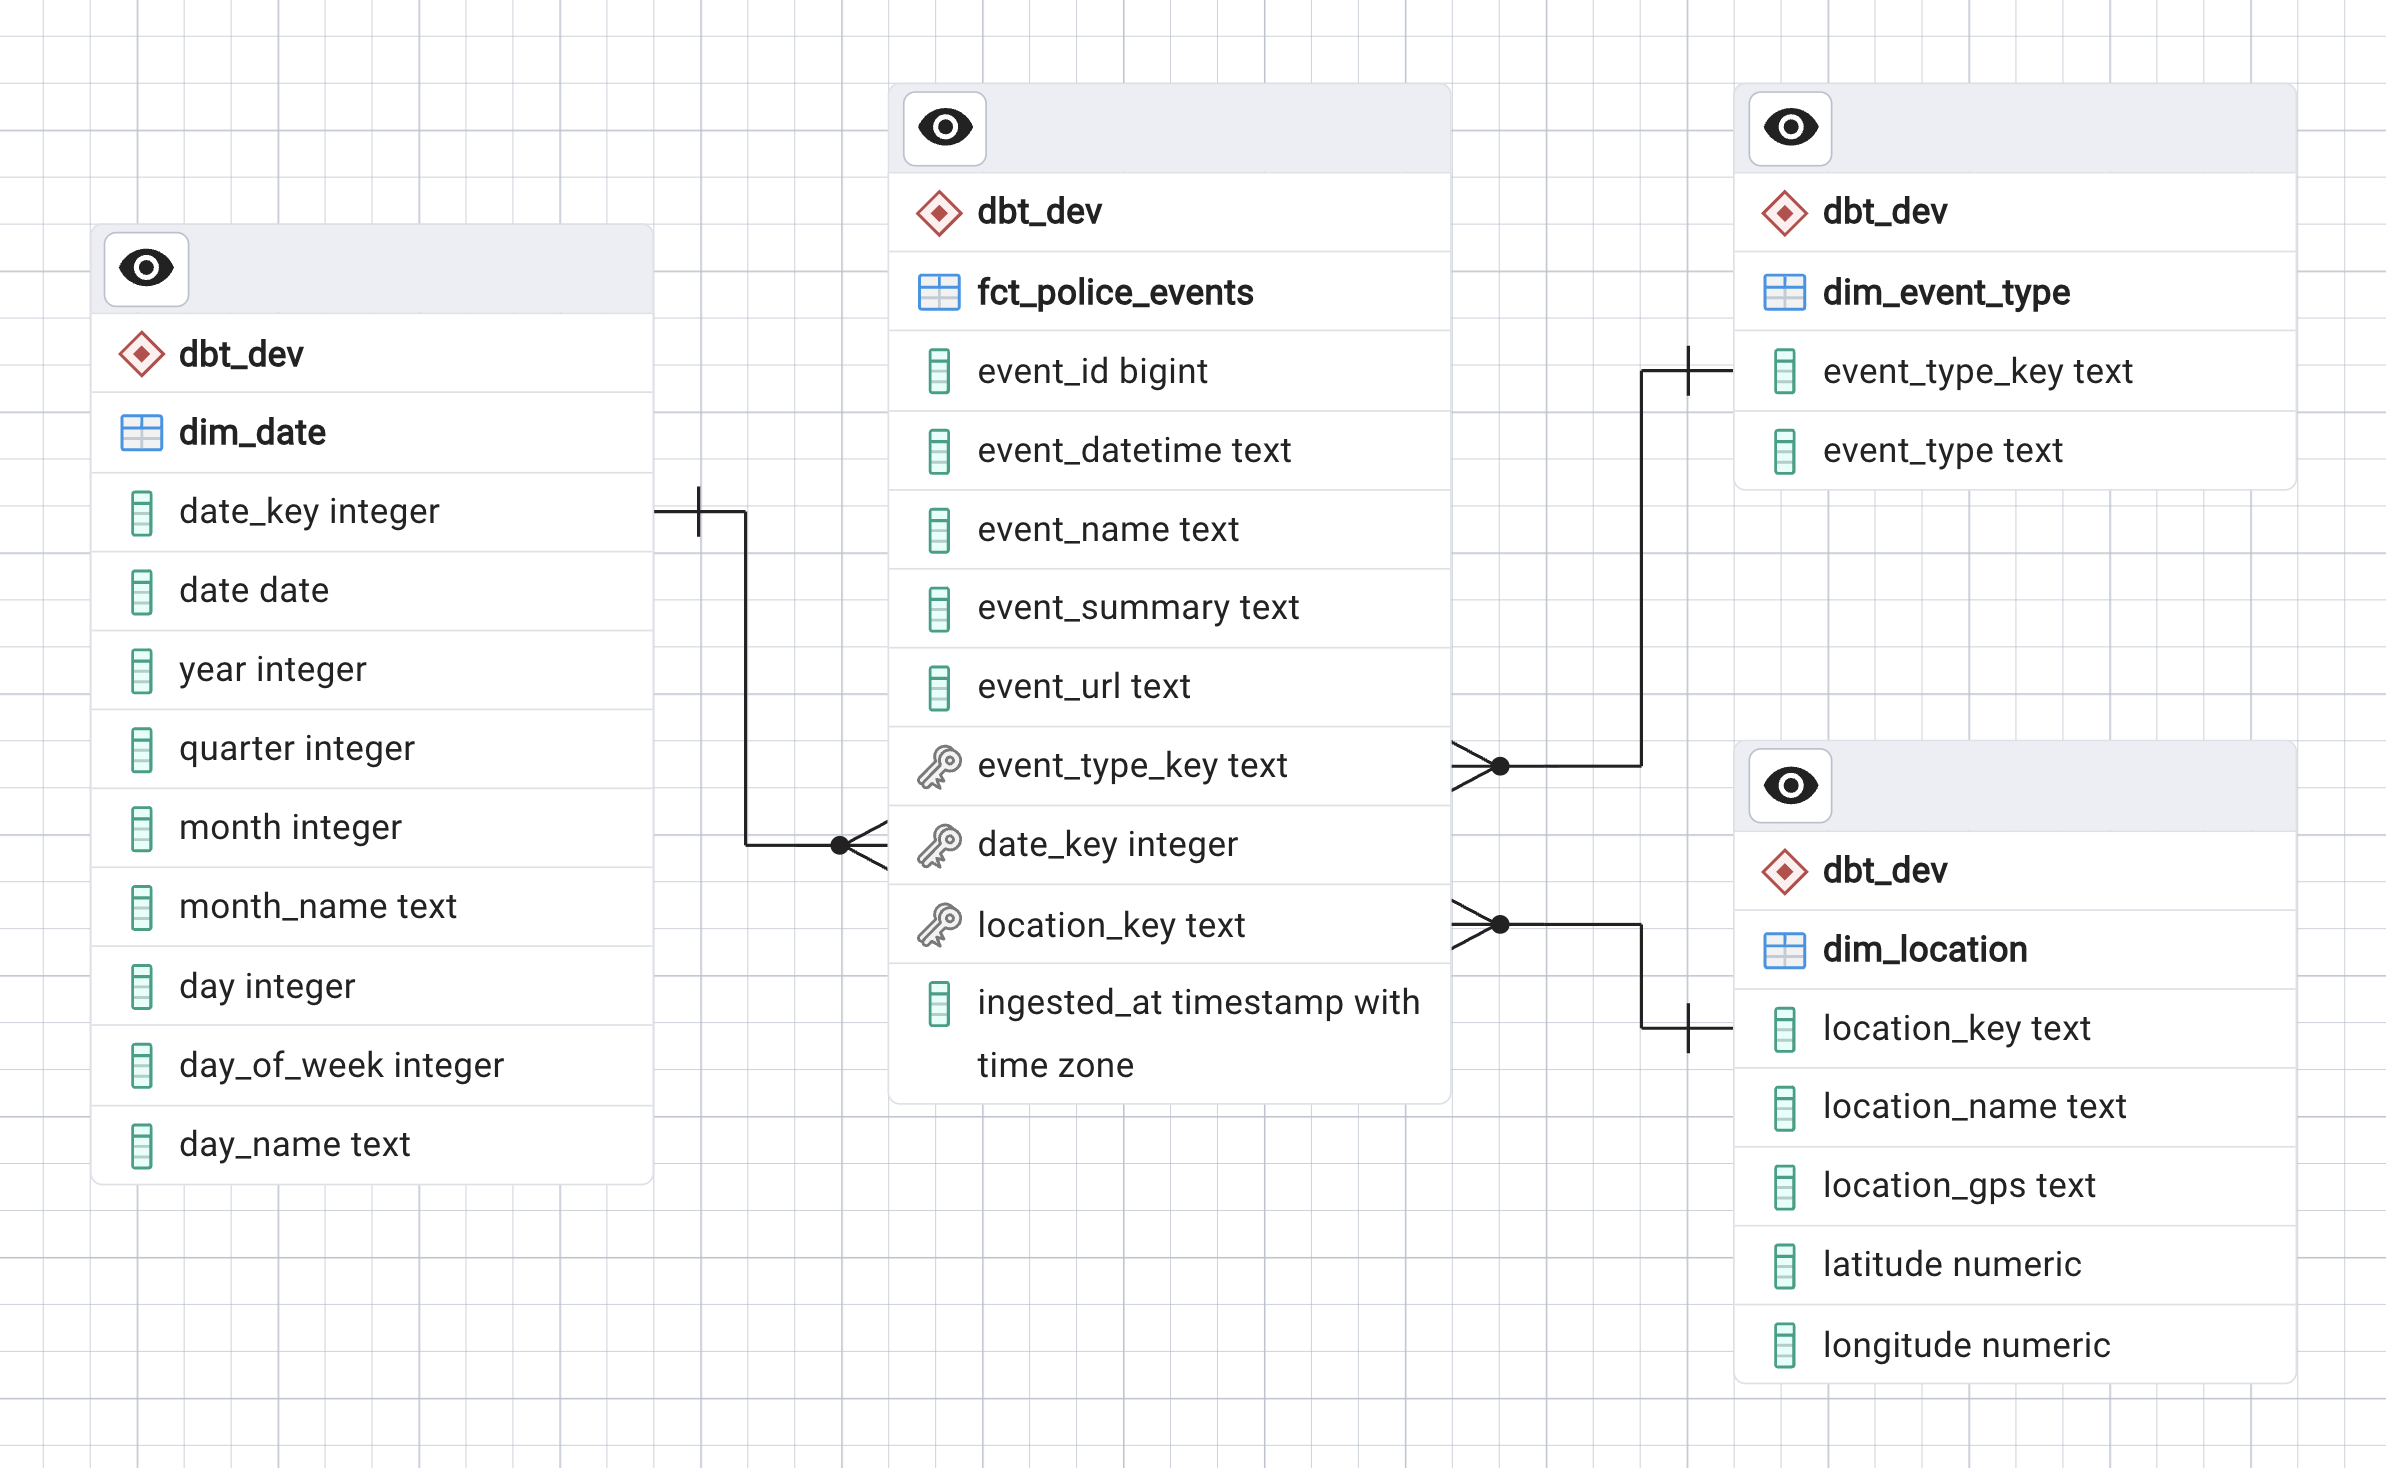
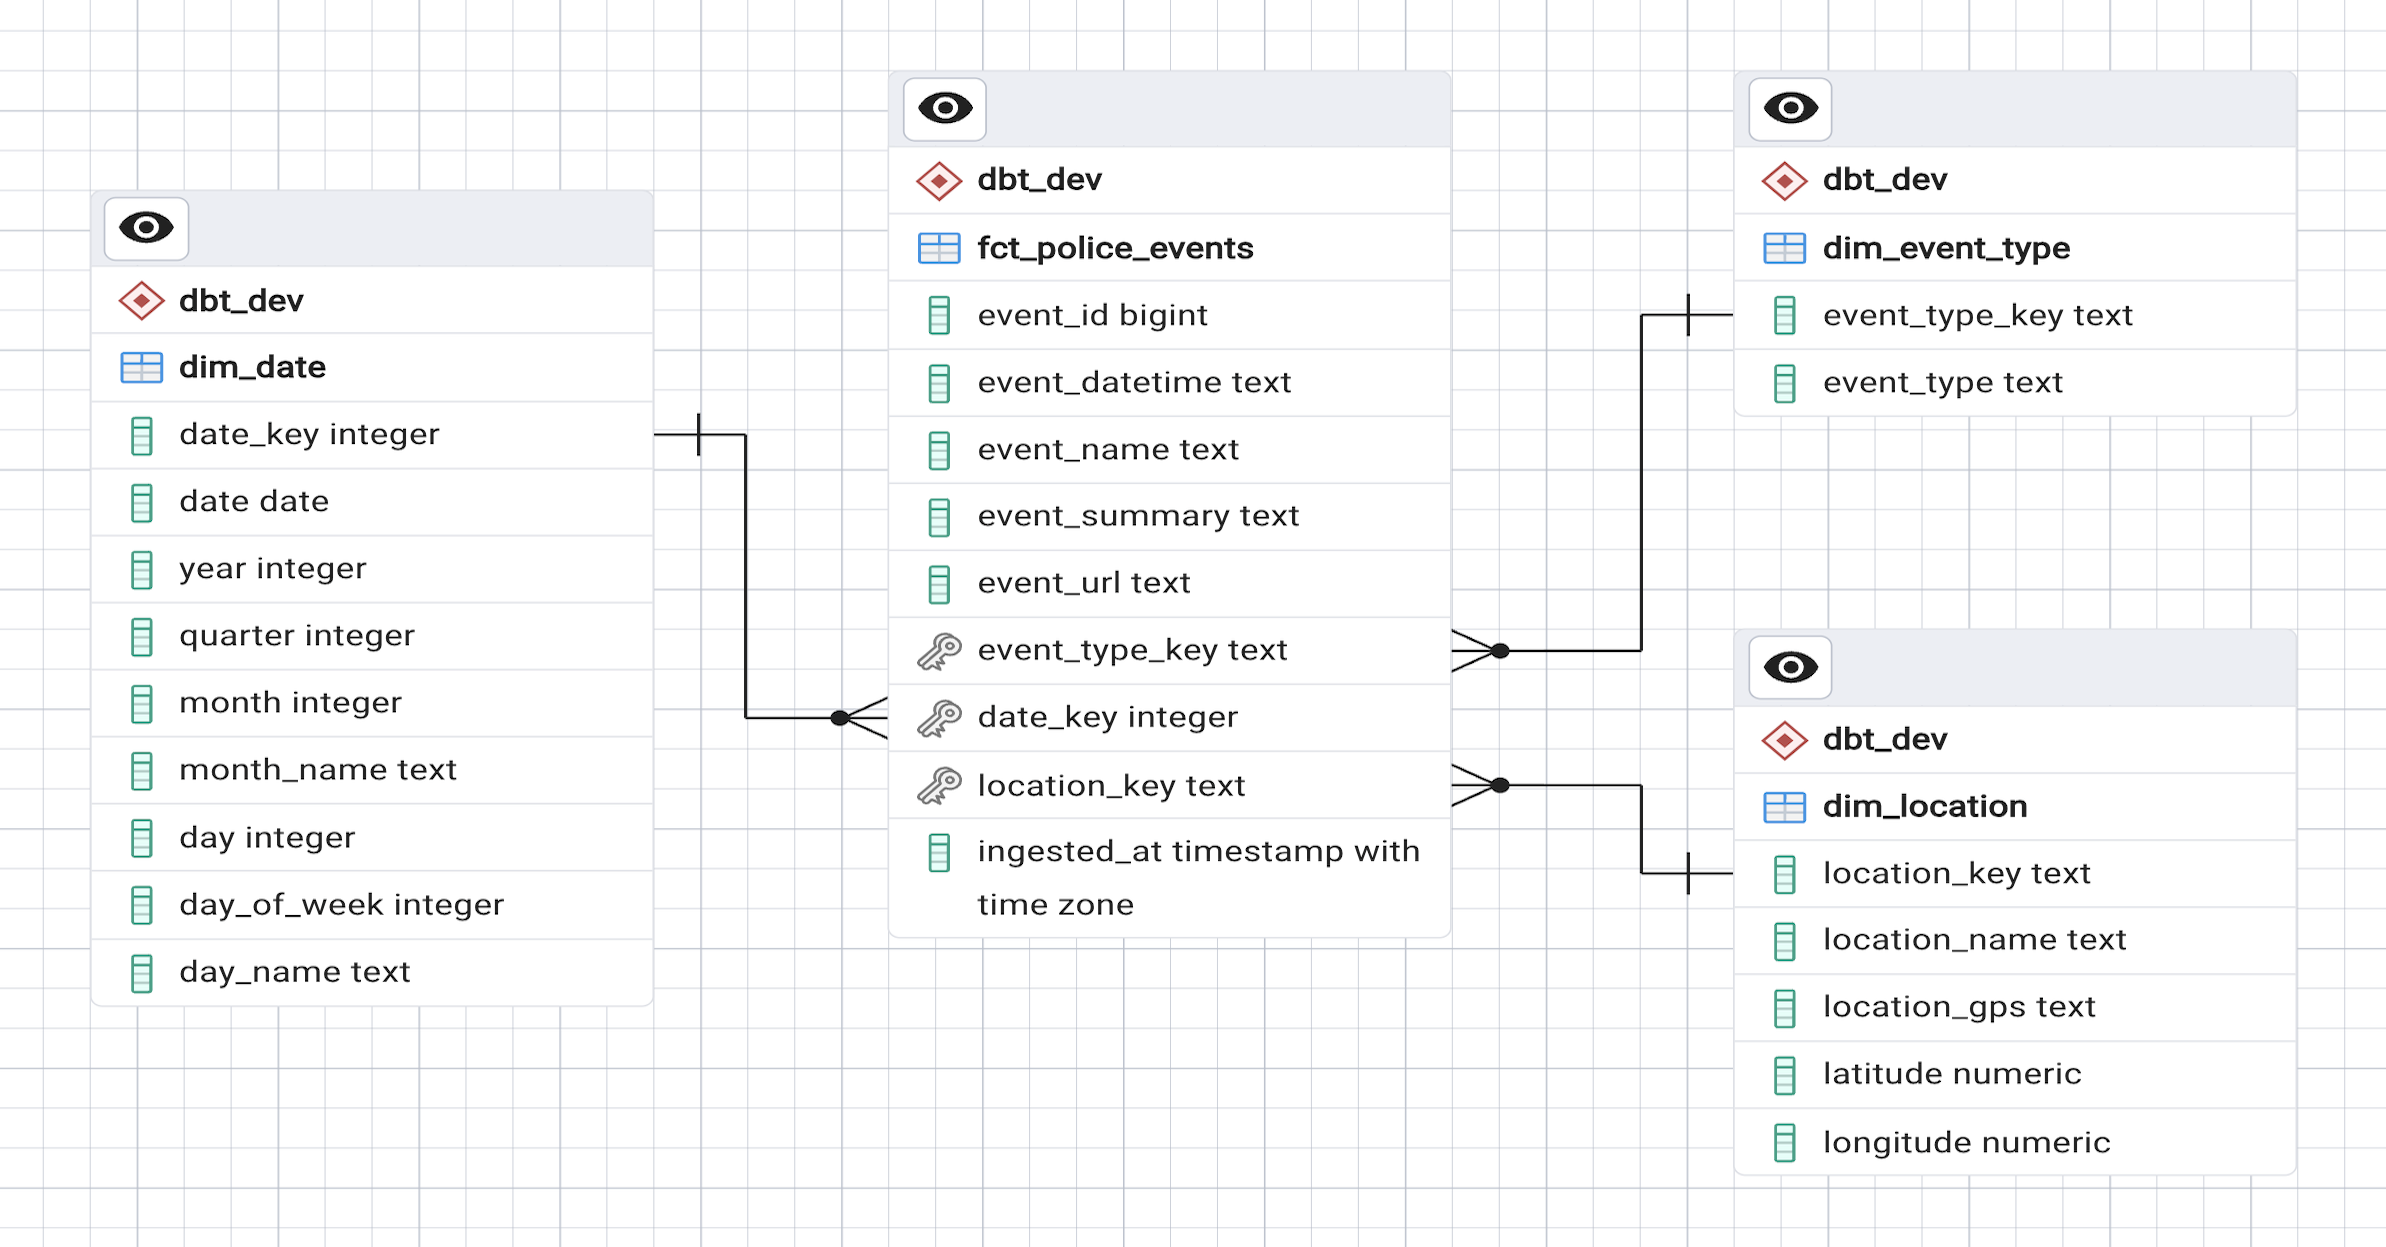
update project README

diff --git a/README.md b/README.md
@@ -1,6 +1,64 @@
 # Sweden Public Safety Analytics
-Ingests event data from the Polisen (Swedish Police) API into Postgres and transforms it with dbt.
 
-![dbt lieage DAG](assets/dbt_lineage_dag.png)
+An end-to-end data pipeline that ingests API data on events published by the Swedish Police Authority into a database, models the data into a dimensional model with dbt, and visualizes it in an interactive dashboard. 
 
-![Starschema](assets/starschema.png)
+This project explores patterns and derives insights from selected and published police events across Sweden. The analysis focuses on temporal, geographic, and event type distributions, based on data from the Swedish Police Authority's public API. The purpose is to demonstrate how raw operational data can be transformed into a structured analytical dataset and used to support data-driven insights.
+
+![Data Flow Diagram](assets/diagram.png)
+
+
+### Architecture
+The pipeline follows an ELT framework, extracting event records from the Polisen.se API, loading the raw JSON payloads into a PostgreSQL raw table, and transforming the data with dbt into a dimensional star schema. Finally, Power BI connects directly to the data warehouse, imports the tables, and presents them through DAX measures and visuals. 
+
+<table>
+  <tr>
+    <td><img src="assets/dbt_lineage_dag.png" width="100%"></td>
+    <td><img src="assets/starschema.png" width="100%"></td>
+  </tr>
+</table>
+
+### Dashboard & Key Insights
+The resulting Power BI dashboard provides an interactive overview of public safety events across Sweden, published by the Swedish Police Authority. The visualizations enable analysis of event volume, event types, geographic distribution, and temporal patterns across the events selected for public release. Based on 1784 published events gathered over a month, the key findings from the analysis are:
+
+- Out of the 21 counties, Skåne, Stockholm, and Västerbotten together account for approximately 30% of all published events
+- “Sammanfattning natt” accounts for 17.9% of all published events, making it the single largest category despite representing a nightly summary rather than a distinct incident type
+- Traffic related events ("Trafikolycka", "Rattfylleri", "Trafikkontroll") are the most frequent distinct event types
+- The volume of published events varies over time, with Mondays and Thursdays showing the highest published event counts
+
+<table>
+  <tr>
+    <td><img src="assets/sweden_public_safety_dashboard.png" width="90%"></td>
+  </tr>
+</table>
+
+> Note: The data represents events selected and published by the Swedish Police Authority and does not reflect the actual distribution of all police events occurring across Sweden. Additionally, county-level comparisons are not adjusted for population size.
+
+### Skills Demonstrated
+**Ingestion**
+- Python
+- REST API integration
+- Idempotent loading with `ON CONFLICT (event_id) DO NOTHING`
+- Error handling
+
+**Engineering**
+- PostgreSQL
+- Raw data storage
+- ELT pipeline design
+
+**Modeling**
+- dbt transformations
+- Star schema with three dimensions and one fact table
+- Data quality testing (`not_null`, `unique`, `relationships`)
+
+**Analytics**
+- Power BI
+- DAX measures
+- Interactive dashboard
+- SQL-based validation of analytical findings (for weekday peaks)
+
+### Run Locally
+Clone the repository, create and activate a virtual environment, and use `.env.example` to create a `.env` file with your credentials. Then run:
+1. `pip install -r requirements.txt`
+2. `python ingestion/ingest.py`
+3. `cd dbt`
+4. `dbt build`
